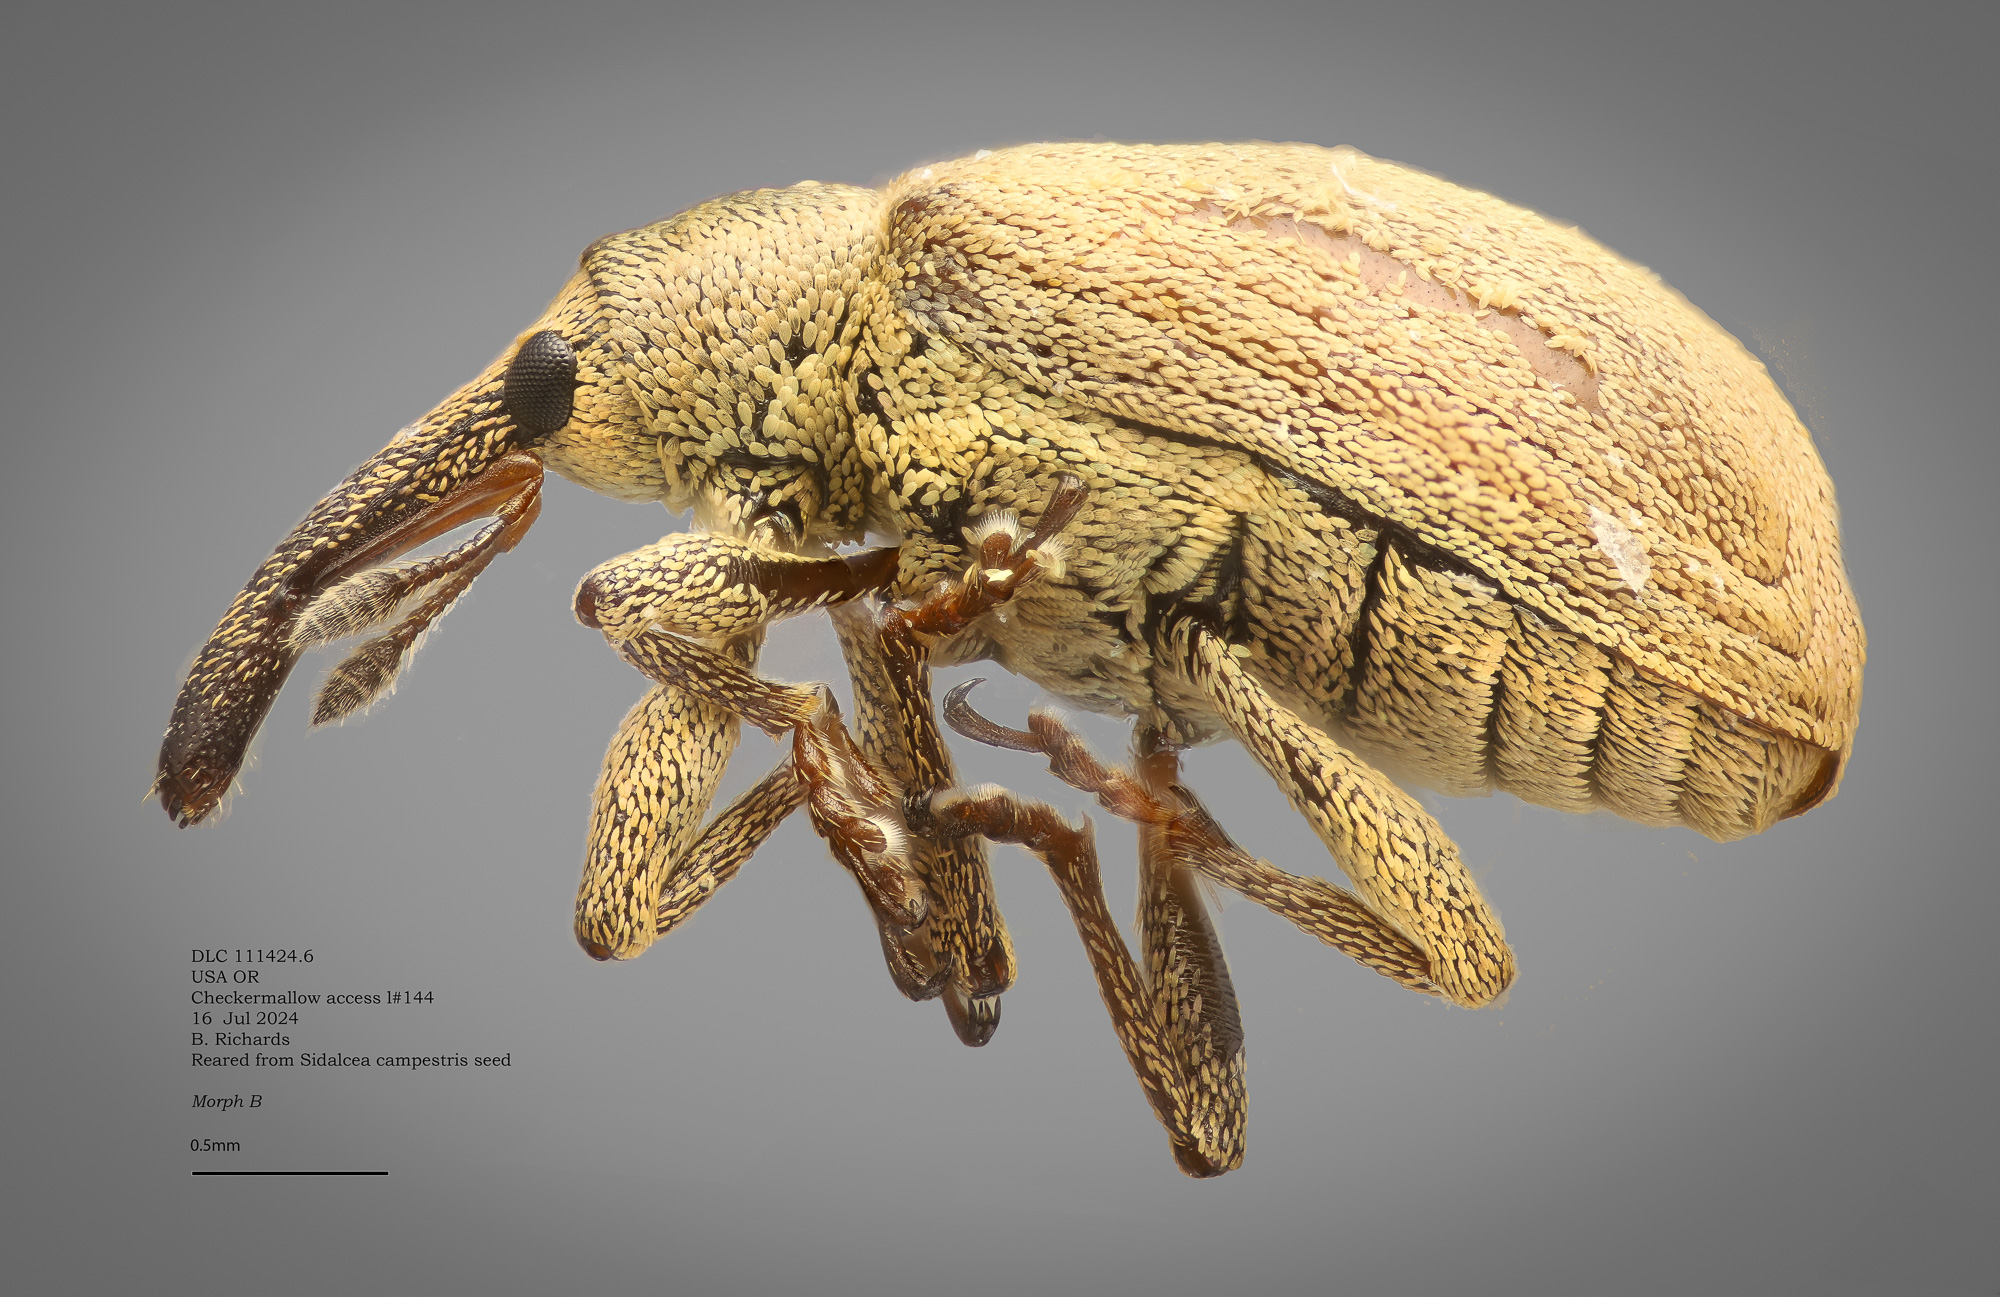
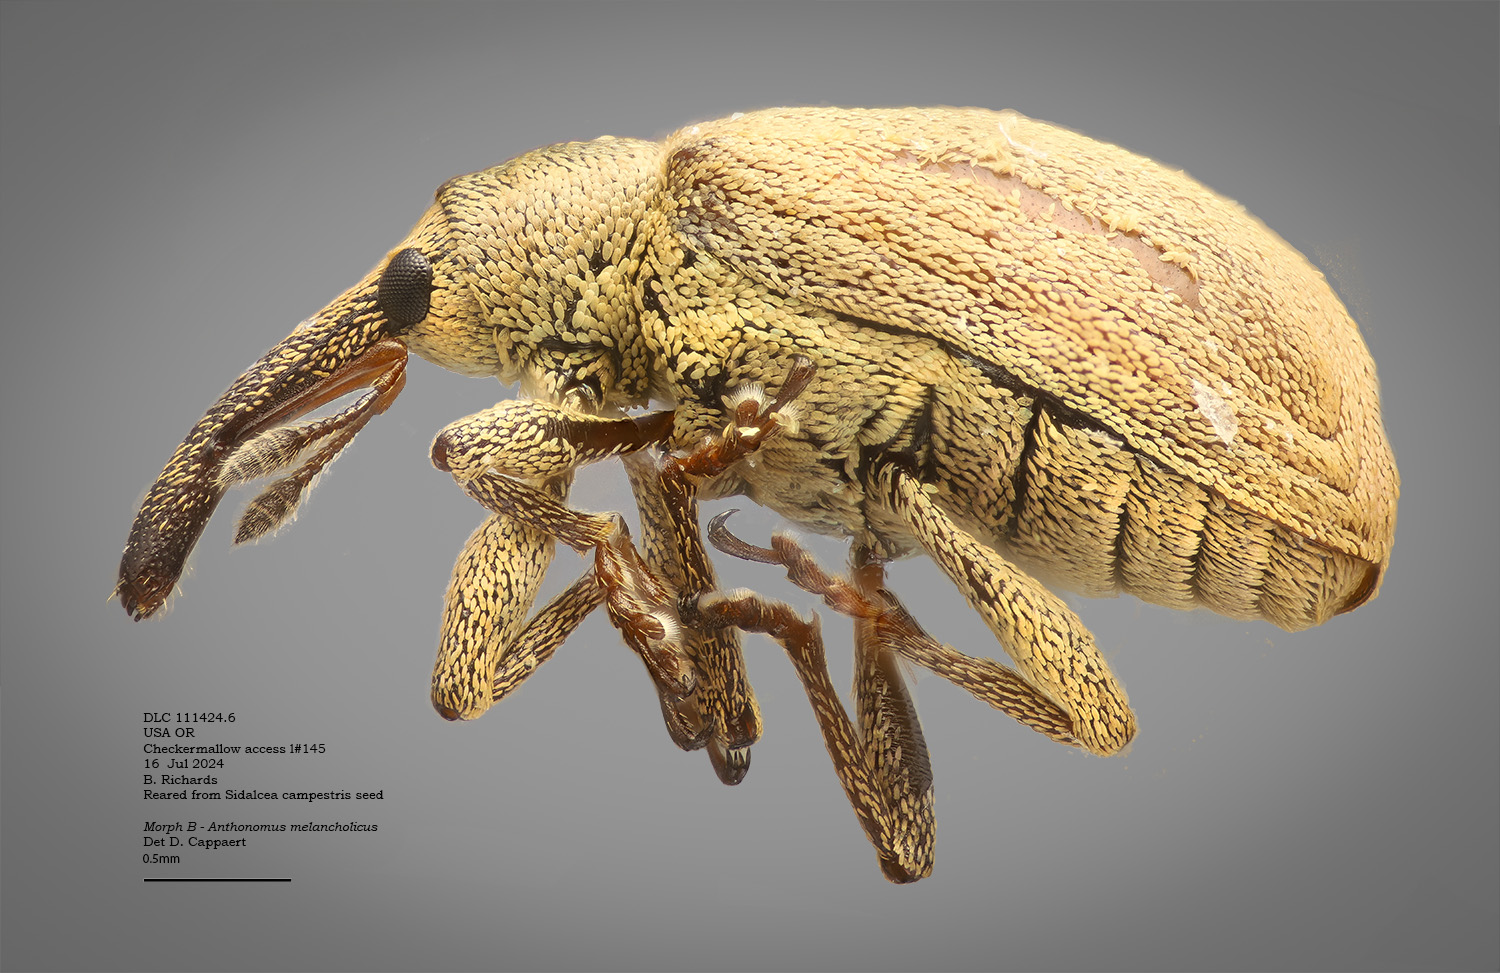
weevil update

diff --git a/2024/DLC 2024.html b/2024/DLC 2024.html
@@ -39,7 +39,7 @@
             <td width="30%" class="text-cell">
                 <!-- Definition -->
                 <a name="weevils"></a><h2>Seed predatory weevils and Sidalcea sp</h2>
-                <p>The checkermallows--Sidalcea sp--are prominent in prairies of the Pacific Northwest, and important in restoration ecology. However there is a significant obstacle to seed production: predation by weevils, predominantly Macrorhoptus sidalceae (<a href="https://appliedeco.org/tiny-but-mighty-weevils-and-the-battle-for-checkermallow-restoration/">background here</a>). I am working with Brooklyn Richards of Oregon State University to document the weevil species, and the parasitoids that attack them. Photos here are of the species collected from Sidalcea campestris seed in 2024. </p>
+                <p>The checkermallows--Sidalcea sp--are prominent in prairies of the Pacific Northwest, and important in restoration ecology. However there is a significant obstacle to seed production: predation by weevils, predominantly Macrorhoptus sidalceae (<a href="https://appliedeco.org/tiny-but-mighty-weevils-and-the-battle-for-checkermallow-restoration/">background here</a>). I am working with Brooklyn Richards of Oregon State University to document the weevil species, and the parasitoids that attack them. Photos here are of the species collected from Sidalcea campestris seed in 2024. </p><p>Parasitoid IDs are challenging. My shortcut was to ask Jeong Yoo, a Chalcidoidea specialist on iNat. I am sending her additional photos to narrow down the diagnoses.</p>
             </td>
             <td width="30%" class="bordered-box-cell">
                 <!-- IMG 1 of 2-->
@@ -62,7 +62,7 @@
                 <div class="image-container">
                     <img src="Morph B,weevil,lateral,111424.6.jpg" class="gallery-image" onclick="openOverlay('Morph B,weevil,lateral,111424.6.jpg')">
                     
-                    <div class="caption">An apparently distinct weevil species, as yet unidentified. I note the longer snout, long; bare scape; scape groove directed to eye; shorter head; color.&nbsp; </div>
+                    <div class="caption">Anthonomus melancholicus, based on the host association, and consistent with key in The North American Species of the Anthonomus squamosus Species-Group. iNat comments agree. Note metatibial spine, subequal to tarsal claw.</div>
                 </div>
             </td>
         </tr>
@@ -71,61 +71,97 @@
 <table width="100%">
     <tbody>
         <tr>
-        <td width="30%" class="bordered-box-cell">
+        <td width="35%" class="bordered-box-cell">
+            <h2>Morphotype E - Melotobus sp</h2>
                 <div class="image-container">
-                 <img src="Pteromalus sp,lateral,111224.3.jpg" class="gallery-image" onclick="openOverlay('Pteromalus sp,lateral,111224.3.jpg')">
-                  <div class="caption">Far the commonest parasitoid observed, "morphotype E," assumed to be a Pteromalus species.&nbsp; &nbsp;</div>
+                 <img src="Mesolobus sp,lateral,111224.3.jpg" class="gallery-image" onclick="openOverlay('Pteromalus sp,lateral,111224.3.jpg')">
+                  <div class="caption">Far the commonest parasitoid observed, "morphotype E" provisionally ID'd by Jeyong Yoo as Melotobus sp.&nbsp; &nbsp;&nbsp;</div>
+                                     <img src="Mesolobus sp,wing,111224.3.jpg" class="gallery-image" onclick="openOverlay('Mesolobus sp,wing,111224.3.jpg')">
                 </div>
                 </td>
-        <td width="20%" class="bordered-box-cell">
+        <td width="30%" class="bordered-box-cell">
                 <div class="image-container">
-                 <img src="Pteromalus sp,head,111224.3.jpg" class="gallery-image" onclick="openOverlay('Pteromalus sp,head,111224.3.jpg')">
-                  <div class="caption">Head of specimen at left.&nbsp;</div>
+                 <img src="Mesolobus sp,head,111224.3.jpg" class="gallery-image" onclick="openOverlay('Pteromalus sp,head,111224.3.jpg')">
+                  <div class="caption">Head of specimen at left. Head of second specimen below.</div>
+                                     <img src="Mesolobus sp,head2,111224.3.jpg" class="gallery-image" onclick="openOverlay('Pteromalus sp,head,111224.3.jpg')">
                 </div>
                 </td>   
-        <td width="30%" class="bordered-box-cell">
+        <td width="35%" class="bordered-box-cell">
                 <div class="image-container">
-                 <img src="Pteromalus sp,lateral,111124.1.jpg" class="gallery-image" onClick="openOverlay('Pteromalus sp,lateral,111124.1.jpg')"></a>
-<div class="caption">Morph A, Same as morph E? Perhaps the male of the wasp pictured on the left?</div>
+                 <img src="Mesolobus sp,dorsal.jpg" class="gallery-image" onClick="openOverlay('Mesolobus sp,dorsal.jpg')"></a>
+<div class="caption">Dorsal view of morphotype E (Melotobus sp); oblique view below.</div>
+                             <img src="Mesolobus sp,propodeum,111224.3.jpg" class="gallery-image" onClick="openOverlay('Mesolobus sp,propodeum,111224.3.jpg')"></a>
                 </div>
                 </td>
-        <td width="20%" class="bordered-box-cell">
-                <div class="image-container">
-                 <a href="Pteromalus sp,head,111124.1.jpg"><img src="Pteromalus sp,head,111124.1.jpg" class="gallery-image" onClick="openOverlay('Pteromalus sp,head,111124.1.jpg')"></a>
-<div class="caption">Head of morph A specimen at left. Differs in coloration and shape, similar sculpturing.</div>
-                </div>
-                </td>     
+       
      </tr>
     </tbody>
 </table>
 <table width="100%">
     <tbody>
         <tr>
+        <td width="35%" class="bordered-box-cell">
+
+                        <h2>Morph A. Same as Morph E, Melotobus? Male?</h2>
+                <div class="image-container">
+                 <img src="Pteromalus sp,lateral,111124.1.jpg" class="gallery-image" onclick="openOverlay('Pteromalus sp,lateral,111124.1.jpg')">
+
+                                     <img src="Pteromalus sp,head,111124.1.jpg" class="gallery-image" onclick="openOverlay('Pteromalus sp,head,111124.1.jpg')">
+                                      <div class="caption">Below: different specimen of Morph A.</div>
+                                                         <img src="Morph A,propodeum,112124.1.jpg" class="gallery-image" onclick="openOverlay('Morph A,propodeum,112124.1.jpg')">
+                </div>
+                </td>
         <td width="30%" class="bordered-box-cell">
+                                    <h2>Morph K. Same as Morph E and A?</h2>
+                <div class="image-container">
+                 <img src="Morph K,lateral,1114242.jpg" class="gallery-image" onclick="openOverlay('Morph K,lateral,1114242.jpg')">
+                  <div class="caption"></div>
+                                     <img src="Morph K,dorsal,1114242.jpg" class="gallery-image" onclick="openOverlay('Morph K,dorsal,1114242.jpg')">
+                    <h2>Morph J - Telenomus sp</h2>
+                                     <img src="Morph J,lateral,1114241.jpg" class="gallery-image" onclick="openOverlay('Morph J,lateral,1114241.jpg')">
+                    <div class="caption">Morph J = Telenomus sp. The genus includes parasitoids of heteroptera, lepidoptera, diptera and neuroptera. See <a href="https://jhr.pensoft.net/article/127112/">info on genus.</a> "Telenomus is by far the largest genus in the subfamily and includes a considerable number of species that cannot be reliably identified." It will be difficult to verify the host, weevil or by-catch.</div>
+                </div>
+                </td>   
+        <td width="35%" class="bordered-box-cell">
+                                                <h2>Morph D - Melittobia sp</h2>
+                <div class="image-container">
+                 <img src="Morph D,lateral,111324.1.jpg" class="gallery-image" onClick="openOverlay('Morph D,lateral,111324.1.jpg')"></a>
+
+                             <img src="Morph D,lateral,111324.1slide.jpg" class="gallery-image" onClick="openOverlay('Morph D,lateral,111324.1slide.jpg')"></a>
+                </div>
+                </td>
+       
+     </tr>
+    </tbody>
+</table>
+<table width="100%">
+    <tbody>
+        <tr>
+        <td width="35%" class="bordered-box-cell">
+            <h2>Brachycyrtus ornatus</h2>
                 <div class="image-container">
                  <img src="Morph B,lateral,111224.1.jpg" class="gallery-image" onclick="openOverlay('Morph B,lateral,111224.1.jpg')">
-                  <div class="caption">Morph B is an outlier. Ichneumonid? Too large to be plausible as a weevil parasitoid.</div>
+                  <div class="caption">Ichneumonidae. Members of the genus are parasitoids of Neuroptera, i.e., this species is by-catch. So, caution: don't assume that every parasitoid has a weevil host.
+                     <img src="Morph B,head,111224.1.jpg" class="gallery-image" onclick="openOverlay('Morph B,head,111224.1.jpg')"></div>
                 </div>
                 </td>
-        <td width="20%" class="bordered-box-cell">
+        <td width="32%" class="bordered-box-cell">
+                        <h2>Morph C - Eupelminae</h2>
                 <div class="image-container">
-                 <img src="Morph B,head,111224.1.jpg" class="gallery-image" onclick="openOverlay('Morph B,head,111224.1.jpg')">
-                  <div class="caption">Head of specimen at left.&nbsp;</div>
+                 <img src="Morph C,lateral,111224.2.jpg" class="gallery-image" onclick="openOverlay('Morph C,lateral,111224.2.jpg')">
+            <img src="Morph C,head,111224.2.jpg" class="gallery-image" onclick="openOverlay('Morph C,head,111224.2.jpg')">
+            </div>
+
                 </div>
                 </td>   
         <td width="25%" class="bordered-box-cell">
+                        <h2>Morph N - same as Morph C?</h2>
                 <div class="image-container">
-                 <img src="Morph D,lateral,111324.1.jpg" class="gallery-image" onclick="openOverlay('Morph D,lateral,111324.1.jpg')">
-                  <div class="caption">Morph D.</div>
-                </div>
+                 <img src="Morph N,lateral,111424.5.jpg" class="gallery-image" onclick="openOverlay('Morph N,lateral,111424.5.jpg')">   
+                                <img src="Morph N,dorsal,111424.5.jpg" class="gallery-image" onclick="openOverlay('Morph N,dorsal,111424.5.jpg')">    
+            <img src="Morph N,head,111424.5.jpg" class="gallery-image" onclick="openOverlay('Morph N,head,111424.5.jpg')">      </div>
                 </td>
-        <td width="25%" class="bordered-box-cell">
-                <div class="image-container">
-
-                                     <img src="Morph J,lateral,1114241.jpg" class="gallery-image" onclick="openOverlay('Morph J,lateral,1114241.jpg')">
-                  <div class="caption">Morph J. Notably tiny.</div>
-                </div>
-                </td>     
+        
      </tr>
     </tbody>
 </table>
@@ -134,6 +170,7 @@
         <tr>
         <td width="30%" class="bordered-box-cell">
                 <div class="image-container">
+                                <h2>Morph I,L - Torymus sp</h2>
                  <img src="Morph I,lateral,111324.2.jpg" class="gallery-image" onclick="openOverlay('Morph I,lateral,111324.2.jpg')">
                   <div class="caption">Morph I</div>
                 </div>
@@ -186,7 +223,7 @@
         <td width="30%" class="bordered-box-cell">
                 <div class="image-container">
                  <img src="Morph D,lateral,111324.1slide.jpg" class="gallery-image" onclick="openOverlay('Morph D,lateral,111324.1slide.jpg')">
-                  <div class="caption">Another specimen of morph D. Positioned in a slide with well, not a recommended technique.</div>
+                  <div class="caption">Another specimen of morph D =  Melittobia sp. Positioned in a slide with well, not a recommended technique.</div>
                 </div>
                 </td>     
      </tr>
@@ -198,18 +235,18 @@
              <td width="20%" class="text-cell">
                 <!-- Definition -->
                 <a name="weevils"></a><h2>Specimens from 2022-3</h2>
-                <p>The above specimens were recorded in 2024, from many seed collections of Sidalcea campestris. Previously, we collected seeds from other Sidalceas, and saw different parasitoids, as well as another weevil.</p>
+                <p>The above specimens were recorded in 2024, from many seed collections of Sidalcea campestris. Previously, we collected seeds from other Sidalceas, and saw different parasitoids, as well as another weevil. I do not possess these specimens.</p>
             </td>
         <td width="12.5%" class="bordered-box-cell">
                 <div class="image-container">
                  <img src="SIDCUS wasp.jpg" class="gallery-image" onclick="openOverlay('SIDCUS wasp.jpg')">
-                  <div class="caption">The commonest parasitoid in all collections, the apparent Pteromalus.</div>
+                  <div class="caption">The commonest parasitoid in all collections,  Pteromalid.</div>
                 </div>
                 </td>
                 <td width="12.5%" class="bordered-box-cell">
                 <div class="image-container">
                  <img src="parasitoids new - Sidalcea parasitoid.jpg" class="gallery-image" onclick="openOverlay('parasitoids new - Sidalcea parasitoid.jpg')">
-                  <div class="caption">Apparent Pteromalus, male</div>
+                  <div class="caption">Male</div>
                 </div>
                 </td>
                 <td width="12.5%" class="bordered-box-cell">
@@ -227,7 +264,7 @@
                     <td width="12.5%" class="bordered-box-cell">
                 <div class="image-container">
                  <img src="Sidalcea parasitoid, WA.jpg" class="gallery-image" onclick="openOverlay('Sidalcea parasitoid, WA.jpg')">
-                  <div class="caption">I'll call this one morphotype dcD</div>
+                  <div class="caption">ID'd by Jeyong as Eupelminae</div>
                 </div>
                 </td>
                     <td width="12.5%" class="bordered-box-cell">
